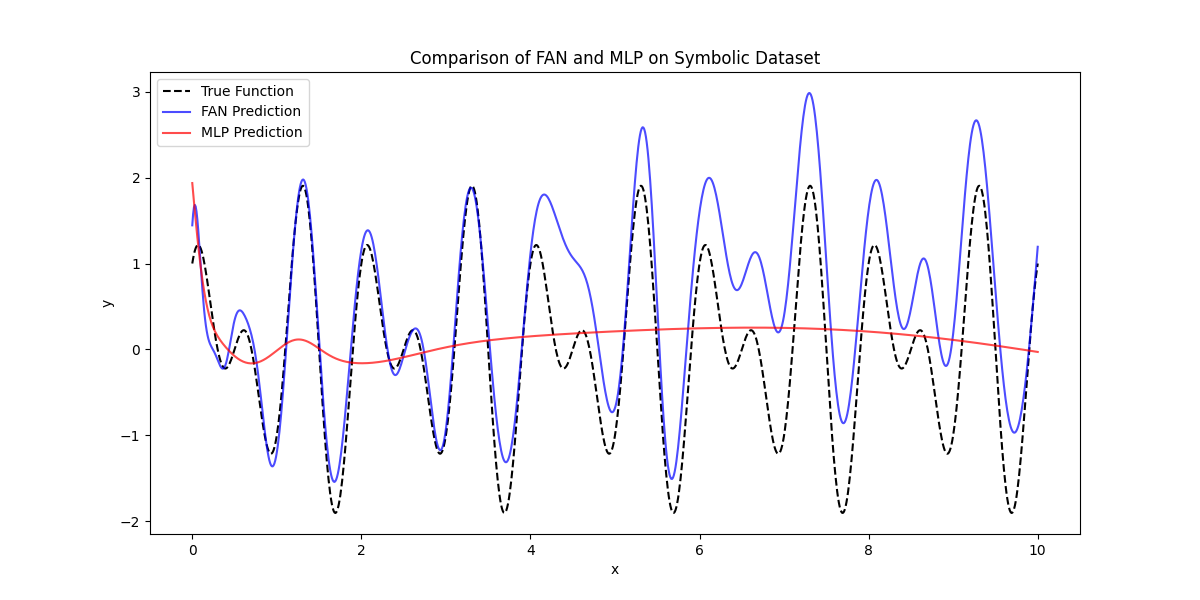
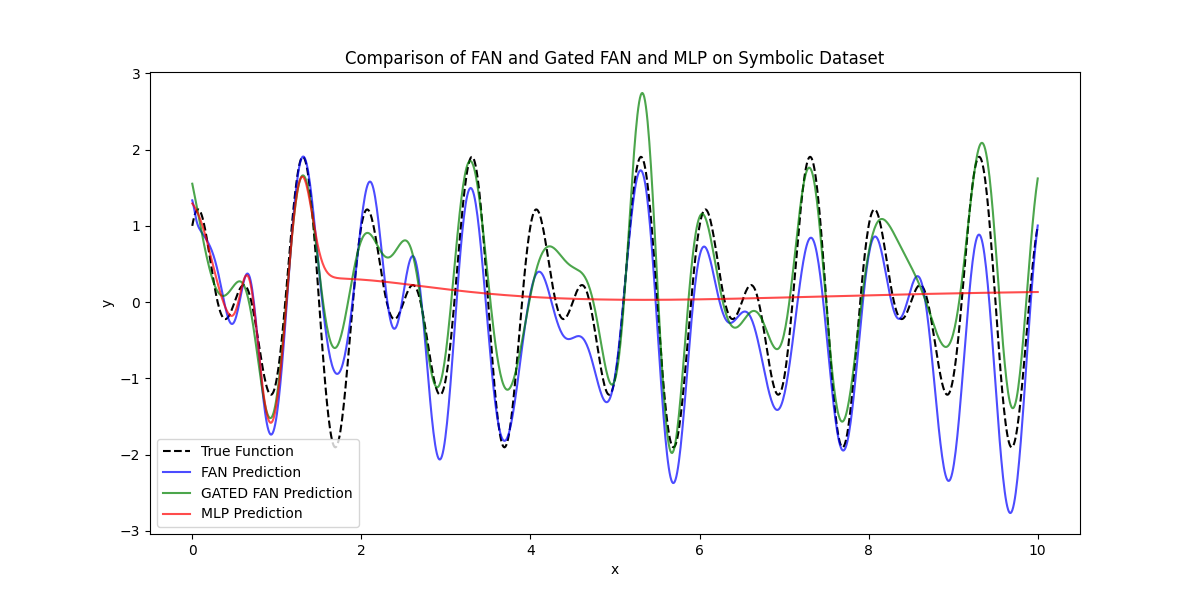
gated FAN's

diff --git a/run.py b/run.py
@@ -3,6 +3,7 @@ from torch.utils.data import random_split
 from dataset import SymbolicDataset
 from model.FAN import FAN
 from model.MLP import MLP
+from model.Gated_FAN import FANGated
 from train import train_model
 from evaluate import evaluate_model
 
@@ -11,11 +12,13 @@ device= torch.device("cuda" if torch.cuda.is_available() else "cpu")
 # Define Models
 fan_model = FAN(in_features=1, hidden_dim=32, num_layers=3).to(device)
 mlp_model = MLP(in_features=1, hidden_dim=32, num_layers=3).to(device)
+gated_fan_model = FANGated(in_features=1, hidden_dim=32, num_layers=3).to(device)
 
 
 # Device check
 print(f"Using device: {device}")
 print(f"FAN model is on device: {next(fan_model.parameters()).device}")
+print(f"GATED FAN model is on device: {next(gated_fan_model.parameters()).device}")
 print(f"MLP model is on device: {next(mlp_model.parameters()).device}")
 
 # Datset
@@ -26,12 +29,15 @@ train_size = int(0.8 * len(dataset))
 val_size = len(dataset) - train_size
 train_dataset, val_dataset = random_split(dataset, [train_size, val_size])
 
-# Train FAN Model
+# Train 
 print('\n FAN model Trainining...')
 fan_train_losses, fan_val_losses = train_model(train_dataset, val_dataset, device, fan_model, epochs=500, batch_size=32, lr=0.001, model_name="FAN")
+
+print('\n GATED FAN model Trainining...')
+gated_fan_train_losses, gated_fan_val_losses = train_model(train_dataset, val_dataset, device, gated_fan_model, epochs=500, batch_size=32, lr=0.001, model_name="GATED FAN")
 
 print('\n MLP model Trainining...')
 mlp_train_losses, mlp_val_losses = train_model(train_dataset, val_dataset, device, mlp_model, epochs=500, batch_size=32, lr=0.001, model_name="MLP")
 
-print("\n Evaluation Time...")
-evaluate_model(fan_model, mlp_model,device)
+print("\n Evaluation ...")
+evaluate_model(fan_model, gated_fan_model, mlp_model,device)

diff --git a/model/Gated_FAN.py b/model/Gated_FAN.py
@@ -1,0 +1,45 @@
+import torch
+import torch.nn as nn
+
+class FANLayerGated(nn.Module):
+    def __init__(self, in_features, d_p, d_p_bar, activation=nn.GELU(), gated=True):
+        super().__init__()
+        self.Wp = nn.Parameter(torch.randn(in_features, d_p))
+        self.Wp_bar = nn.Parameter(torch.randn(in_features, d_p_bar))
+        self.Bp_bar = nn.Parameter(torch.zeros(d_p_bar))
+        self.activation = activation
+        if gated:
+            self.gate = nn.Parameter(torch.randn(1))
+
+    def forward(self, x):
+        cos_term = torch.cos(torch.matmul(x, self.Wp))
+        sin_term = torch.sin(torch.matmul(x, self.Wp))
+        non_periodic_term = self.activation(torch.matmul(x, self.Wp_bar) + self.Bp_bar)
+        
+        if hasattr(self, 'gate'):
+            gate = torch.sigmoid(self.gate)
+            cos_term = gate * cos_term
+            sin_term = gate * sin_term
+            non_periodic_term = (1 - gate) * non_periodic_term
+
+        return torch.cat([cos_term, sin_term, non_periodic_term], dim=-1)
+
+# The Gated FAN model
+class FANGated(nn.Module):
+    def __init__(self, in_features, hidden_dim, num_layers, activation=nn.GELU(), gated=True):
+        super().__init__()
+        self.layers = nn.ModuleList()
+        
+        d_p = hidden_dim // 4
+        d_p_bar = hidden_dim
+
+        for _ in range(num_layers - 1):
+            self.layers.append(FANLayerGated(in_features, d_p, d_p_bar, activation, gated))
+            in_features = 2 * d_p + d_p_bar  
+
+        self.output_layer = nn.Linear(in_features, 1) 
+
+    def forward(self, x):
+        for layer in self.layers:
+            x = layer(x)
+        return self.output_layer(x)

diff --git a/evaluate.py b/evaluate.py
@@ -2,7 +2,7 @@ import torch
 import numpy as np
 import matplotlib.pyplot as plt
 
-def evaluate_model(fan_model, mlp_model,device):
+def evaluate_model(fan_model, gated_fan_model, mlp_model,device):
     x_test = torch.linspace(0, 10, 1000).reshape(-1, 1).float().to(device)
     y_test = np.sin(2 * np.pi * x_test.cpu().numpy()) + np.cos(3 * np.pi * x_test.cpu().numpy())
     
@@ -10,6 +10,7 @@ def evaluate_model(fan_model, mlp_model,device):
     mlp_model.eval()
     with torch.no_grad():
         fan_pred = fan_model(x_test).cpu().numpy()
+        gated_fan_pred = gated_fan_model(x_test).cpu().numpy()
         mlp_pred = mlp_model(x_test).cpu().numpy()
 
     # Plotting the results
@@ -17,11 +18,12 @@ def evaluate_model(fan_model, mlp_model,device):
 
     plt.plot(x_test.cpu().numpy(), y_test, label="True Function", color="black", linestyle="dashed")
     plt.plot(x_test.cpu().numpy(), fan_pred, label="FAN Prediction", color="blue", alpha=0.7)
+    plt.plot(x_test.cpu().numpy(), gated_fan_pred, label="GATED FAN Prediction", color="green", alpha=0.7)
     plt.plot(x_test.cpu().numpy(), mlp_pred, label="MLP Prediction", color="red", alpha=0.7)
     
     plt.legend()
 
-    plt.title("Comparison of FAN and MLP on Symbolic Dataset")
+    plt.title("Comparison of FAN and Gated FAN and MLP on Symbolic Dataset")
     plt.xlabel("x")
     plt.ylabel("y")
 
